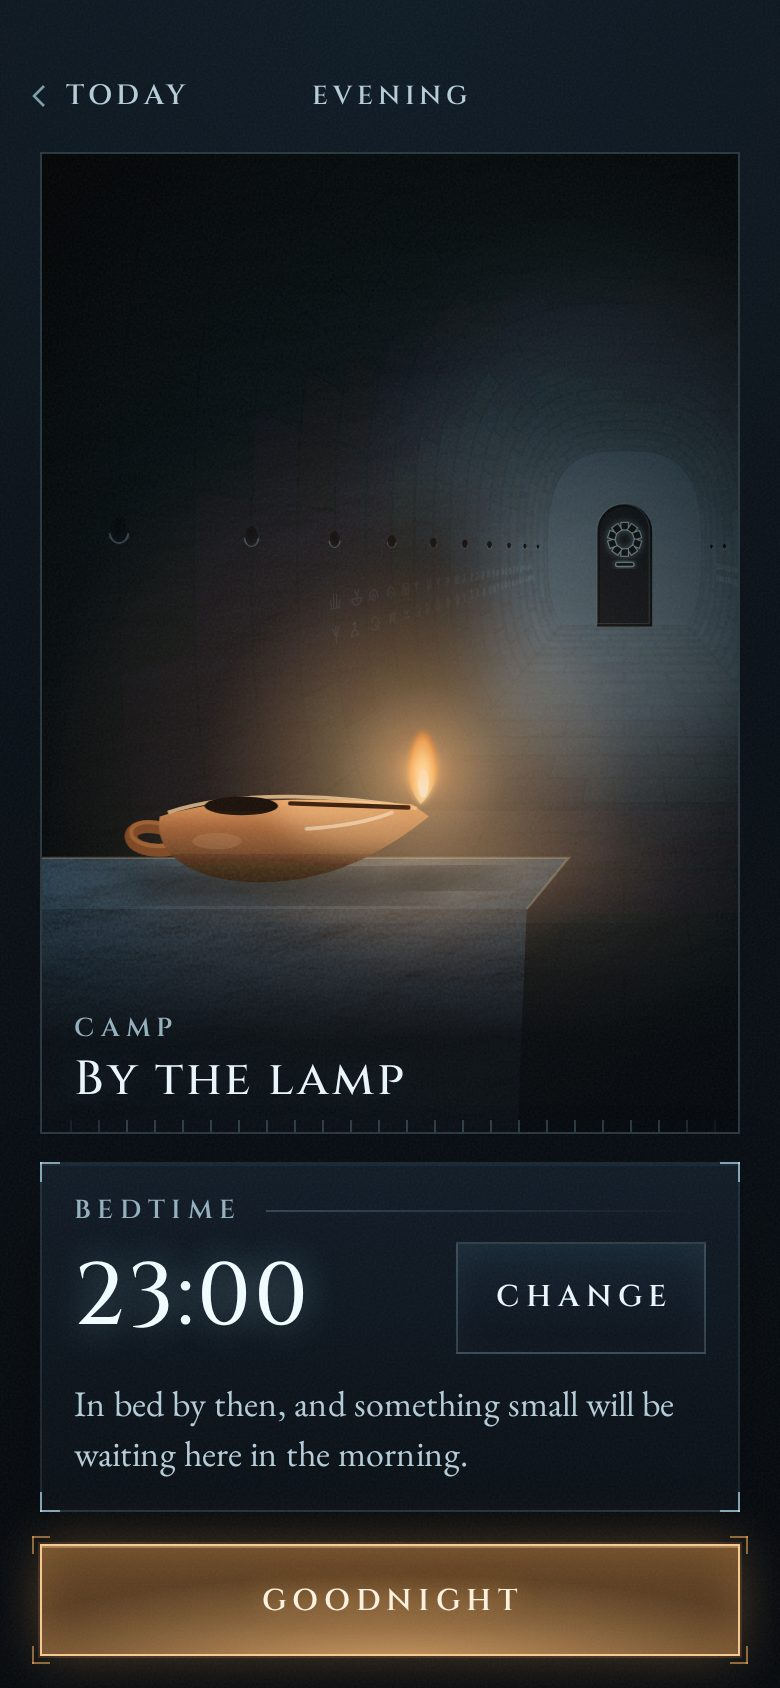
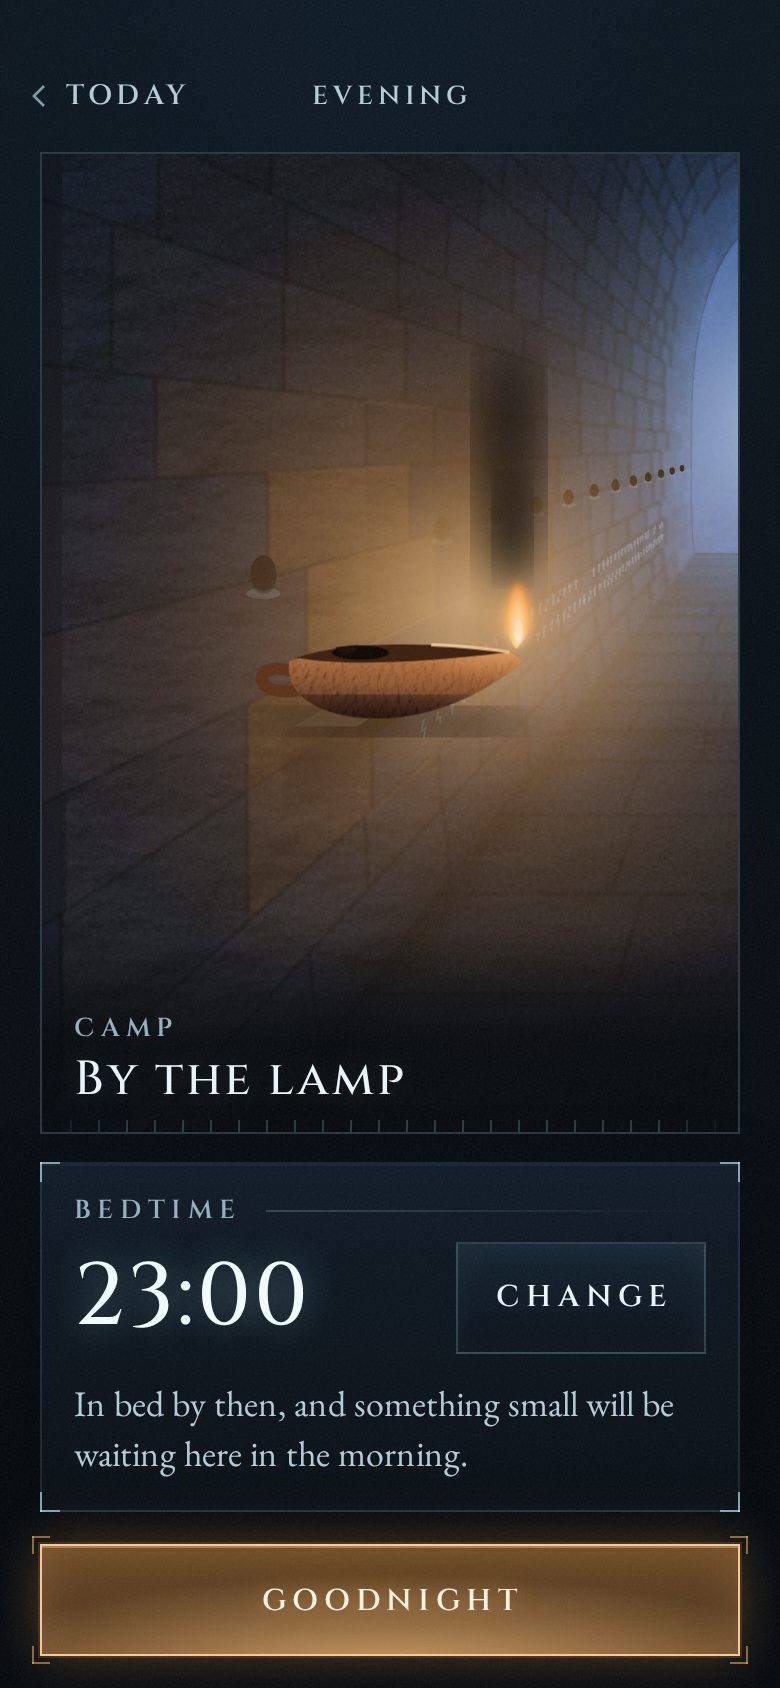
design: direction B, revision round 2
Claude-Session: https://claude.ai/code/session_017rYuCCJkEfgfZgeLg23VAh

diff --git a/docs/design/directions/b-engraved-light/REVISION-2.md b/docs/design/directions/b-engraved-light/REVISION-2.md
@@ -1,0 +1,73 @@
+# B — Engraved Light: revision 2
+
+This answers `CRITIQUE-2.md`. Every screen is re-shot at 390×844 and 360×780.
+
+## The painting (B1, B2, and "one painting everywhere")
+- **One Lamp Hall, painted once, reused.** A single canvas is cropped per screen:
+  - morning: the whole hall, anchored to the floor, with the vault rising out of frame
+  - delve: the same hall, dimmed, with no cups
+  - cut: the lintel side, with the cups lit
+  - camp: the lamp side, with the lamp's light up
+- **The shape** is tall, not a tube: near-vertical walls curl into a high vault, and the hall is about twice as high as it is wide. Courses run *along* the hall and converge on one vanishing point, so there are no hoops.
+- **One light model** tones every block: cold haze from the far end, and warm from the clay lamp falling off with distance. The lamp catches the cut edges near it.
+- **Texture, not outlines:** lit relief (`feDiffuseLighting`) blended over the stone, fading toward the far end; soft joints; shadow where wall meets floor. Filters now run in sRGB, which also removes the green and purple casts the linear blur was adding.
+- **The lintel sits in the right-hand wall:**
+  - the beam is stone flush with the courses;
+  - the opening is a recessed face with its far jamb catching light, closed by fitted stone;
+  - only the two marks and the rod-blank carry light.
+- **The great door's count** is eleven separate small notches round an arch above the door, not a disc.
+- **Wall-cups** are small shadowed recesses with a faint lower lip. They are dark everywhere except the cut, where they wake one by one down the hall.
+- **The Salt Gallery (complete):**
+  - Its own silhouette: a taller, narrower cut with a lower, flatter vault and salt blooming on the lower courses toward the end.
+  - The face is **pale crystalline rock salt**: faceted, with a specular glint and a rough crust standing proud at its edges, and blooms spilling onto the floor.
+  - The split runs near-straight from the top to knee height, packed with stones and closed below by a fitted stone.
+  - "Sealed" is now a single fine line of light cut across the cleft. The HUD bracket and caption are gone.
+  - The tally is cut into the left wall plane.
+
+## Blockers and should-fix
+- **B3 delve:**
+  - The route strip is gone; the ring is the only progress.
+  - The world behind the ring is painted and visible. A faint point of cold light moves down the passage floor as the ring fills.
+  - There are no cups in the delve view, so nothing crosses the numerals.
+  - A single caption, "left", under the number.
+  - 25 plain minute ticks with one start mark.
+- **B4 cut → "Go through":** now arrives at a new screen, `stair.html` (the head of the stair): a landing, the steps going down into the dark, and one line of copy. `map.html#stair` is also fixed: the lintel reads "opened", the stair is at full strength, and the labels are clear of the reticle.
+- **S1 flow:**
+  - **Begin** starts a delve on *Order the cat's medication* (`delve.html#cat`), with an "It's done" link back to morning.
+  - Morning then shows the Course as next (`morning.html#cat-done`).
+  - The Course row is tappable and opens the Course delve (the shared sample, 14:12 left).
+  - When it ends: breather, then Next delve, then the second delve (`#second`). That one ends by itself after 40 seconds and leads to **day complete**, then camp.
+  - "Today" from complete and camp leads to `morning.html#done`, a calm "That's the day." state with no next job.
+- **S2:** the brackets are gone from the lintel, and the count is an arch of notches above the door.
+- **S3:** the lintel has two new mark shapes that appear nowhere else. The wall script uses its own filler set (eight shapes). None of the filler shapes is a record mark, the ring, the cut word or a lintel mark, and the Q form is gone from the filler.
+- **S4 map:**
+  - Labels sit by their nodes and are no longer cut off.
+  - There is one small cairn on each walked route.
+  - The default card has no heading: "The lamp is lit. Camp is here."
+  - Labels use a soft blurred halo instead of the black outline.
+  - "the head of the stair" has readable contrast; the stair glyph carries the faintness.
+- **S5 breather:**
+  - No countdown: the ring is empty and breathes softly.
+  - Copy: "Take a breather. A soft chime when it's over; the second delve is here when you want it."
+  - Next delve (warm) and Done for now (cold) are buttons of equal size.
+- **S6 record wall:**
+  - The filler is a real script: eight shapes, repeated, with uneven line lengths and spacing, and gaps.
+  - There are worn patches with no marks at all.
+  - Salt is drawn as hard-edged pale crust with crystalline facets, not cloud.
+- **S7 camp:**
+  - The ledge is a narrow lip cut into the wall, with its own shadow.
+  - The lamp is matte clay with a rough glaze and a chip; the rim nearest the flame catches the light.
+  - There is a soot plume above the flame.
+  - The warm spill shows several wall courses and a dark cup beside it.
+
+## Nits
+- **Daybook:** "Next week" sits under the map, and the map labels are larger.
+- **Satchel:** the input follows the list, and the strap ends inside the plate.
+- **Morning:** tabs are 14 px, with a column gap.
+- **Cut:** "The word locks." appears on lock.
+- **Complete:** the new cairn has a trace of the lamp's warm.
+
+## Declined
+- **Periwinkle line colour:** left for Dan to decide. Recolouring every line, glyph and glow changes the whole direction, not one frame. It's a palette variable (`--light`) plus the SVG strokes, so it can be tried quickly once he chooses.
+- **"Go through" to an arrival:** `stair.html` is a tenth screen, added because the critique asked for somewhere to arrive.
+- **Morning states:** these are prototype states on the one morning file (`#cat-done`, `#done`), not extra screens.

diff --git a/docs/design/directions/b-engraved-light/NOTES.md b/docs/design/directions/b-engraved-light/NOTES.md
@@ -1,10 +1,10 @@
 # B — Engraved Light: notes
 
-Nine static screens, `direction.css` (shared tokens and pieces), `index.html` (gallery), `shots/` (phone-size pictures). Revised after round 1: see `REVISION-1.md`. Spec: `ART_DIRECTION.md` → "B — Engraved Light".
+Nine static screens, `direction.css` (shared tokens and pieces), `index.html` (gallery), `shots/` (phone-size pictures). Revised after rounds 1 and 2: see `REVISION-1.md` and `REVISION-2.md`. A tenth screen, `stair.html`, is where "Go through" arrives. Spec: `ART_DIRECTION.md` → "B — Engraved Light".
 
 ## Key choices
 - **An instrument, not a painting.** The world always sits in a framed **viewport** (hairline border, corner ticks, a graticule scale on one edge). Everything else is a **plate** on a 20 px gutter with 8 px steps. The corner tick is the signature: plates have it, and the one warm button has its own brackets just outside its edge.
-- **Painted stone, engraved light.** The places are painted: dark basalt masonry in perspective, a shell-like vault, block-by-block tone, dark joints, haze and falloff. Lines of cold light (#bfefff) are kept for what is *engraved*: marks, the lintel, the door's count, the script at hand height, and the interface. The light is cut into the stone; it is never the wall itself.
+- **Painted stone, engraved light.** One Lamp Hall is painted once and cropped per screen: a tall shell vault, courses running down the hall to one vanishing point, every block toned by one light model (cold haze from the far end, warm from the lamp), with lit relief texture. The Salt Gallery is its own narrower cut, ending in pale crystalline rock salt. Lines of cold light (#bfefff) are kept for what is *engraved*: marks, the lintel, the door's count, the script at hand height, and the interface. The light is cut into the stone; it is never the wall itself.
 - **Warm is rare.** Only the clay lamp and one next action are warm (Begin, Next delve, Go through, Goodnight). Exits are cold. The delve screen has no warm at all: while you work, the place is cold. The wall cups are dark everywhere except the cut, where they wake one by one down the hall. That's the one time warm fills a screen, so it lands.
 - **Type.** Cinzel, small and widely spaced, for place names, labels, titles, buttons and numerals (14:12, 23:00). EB Garamond for every sentence, list item and guess. Guesses are italic with a question mark; confirmed marks are upright.
 - **Records** are an engraved panel of cells. The line being read is bracketed on the wall and "zoomed" to the panel on dotted lines. Guesses hang under their marks on leader lines, like annotations.
